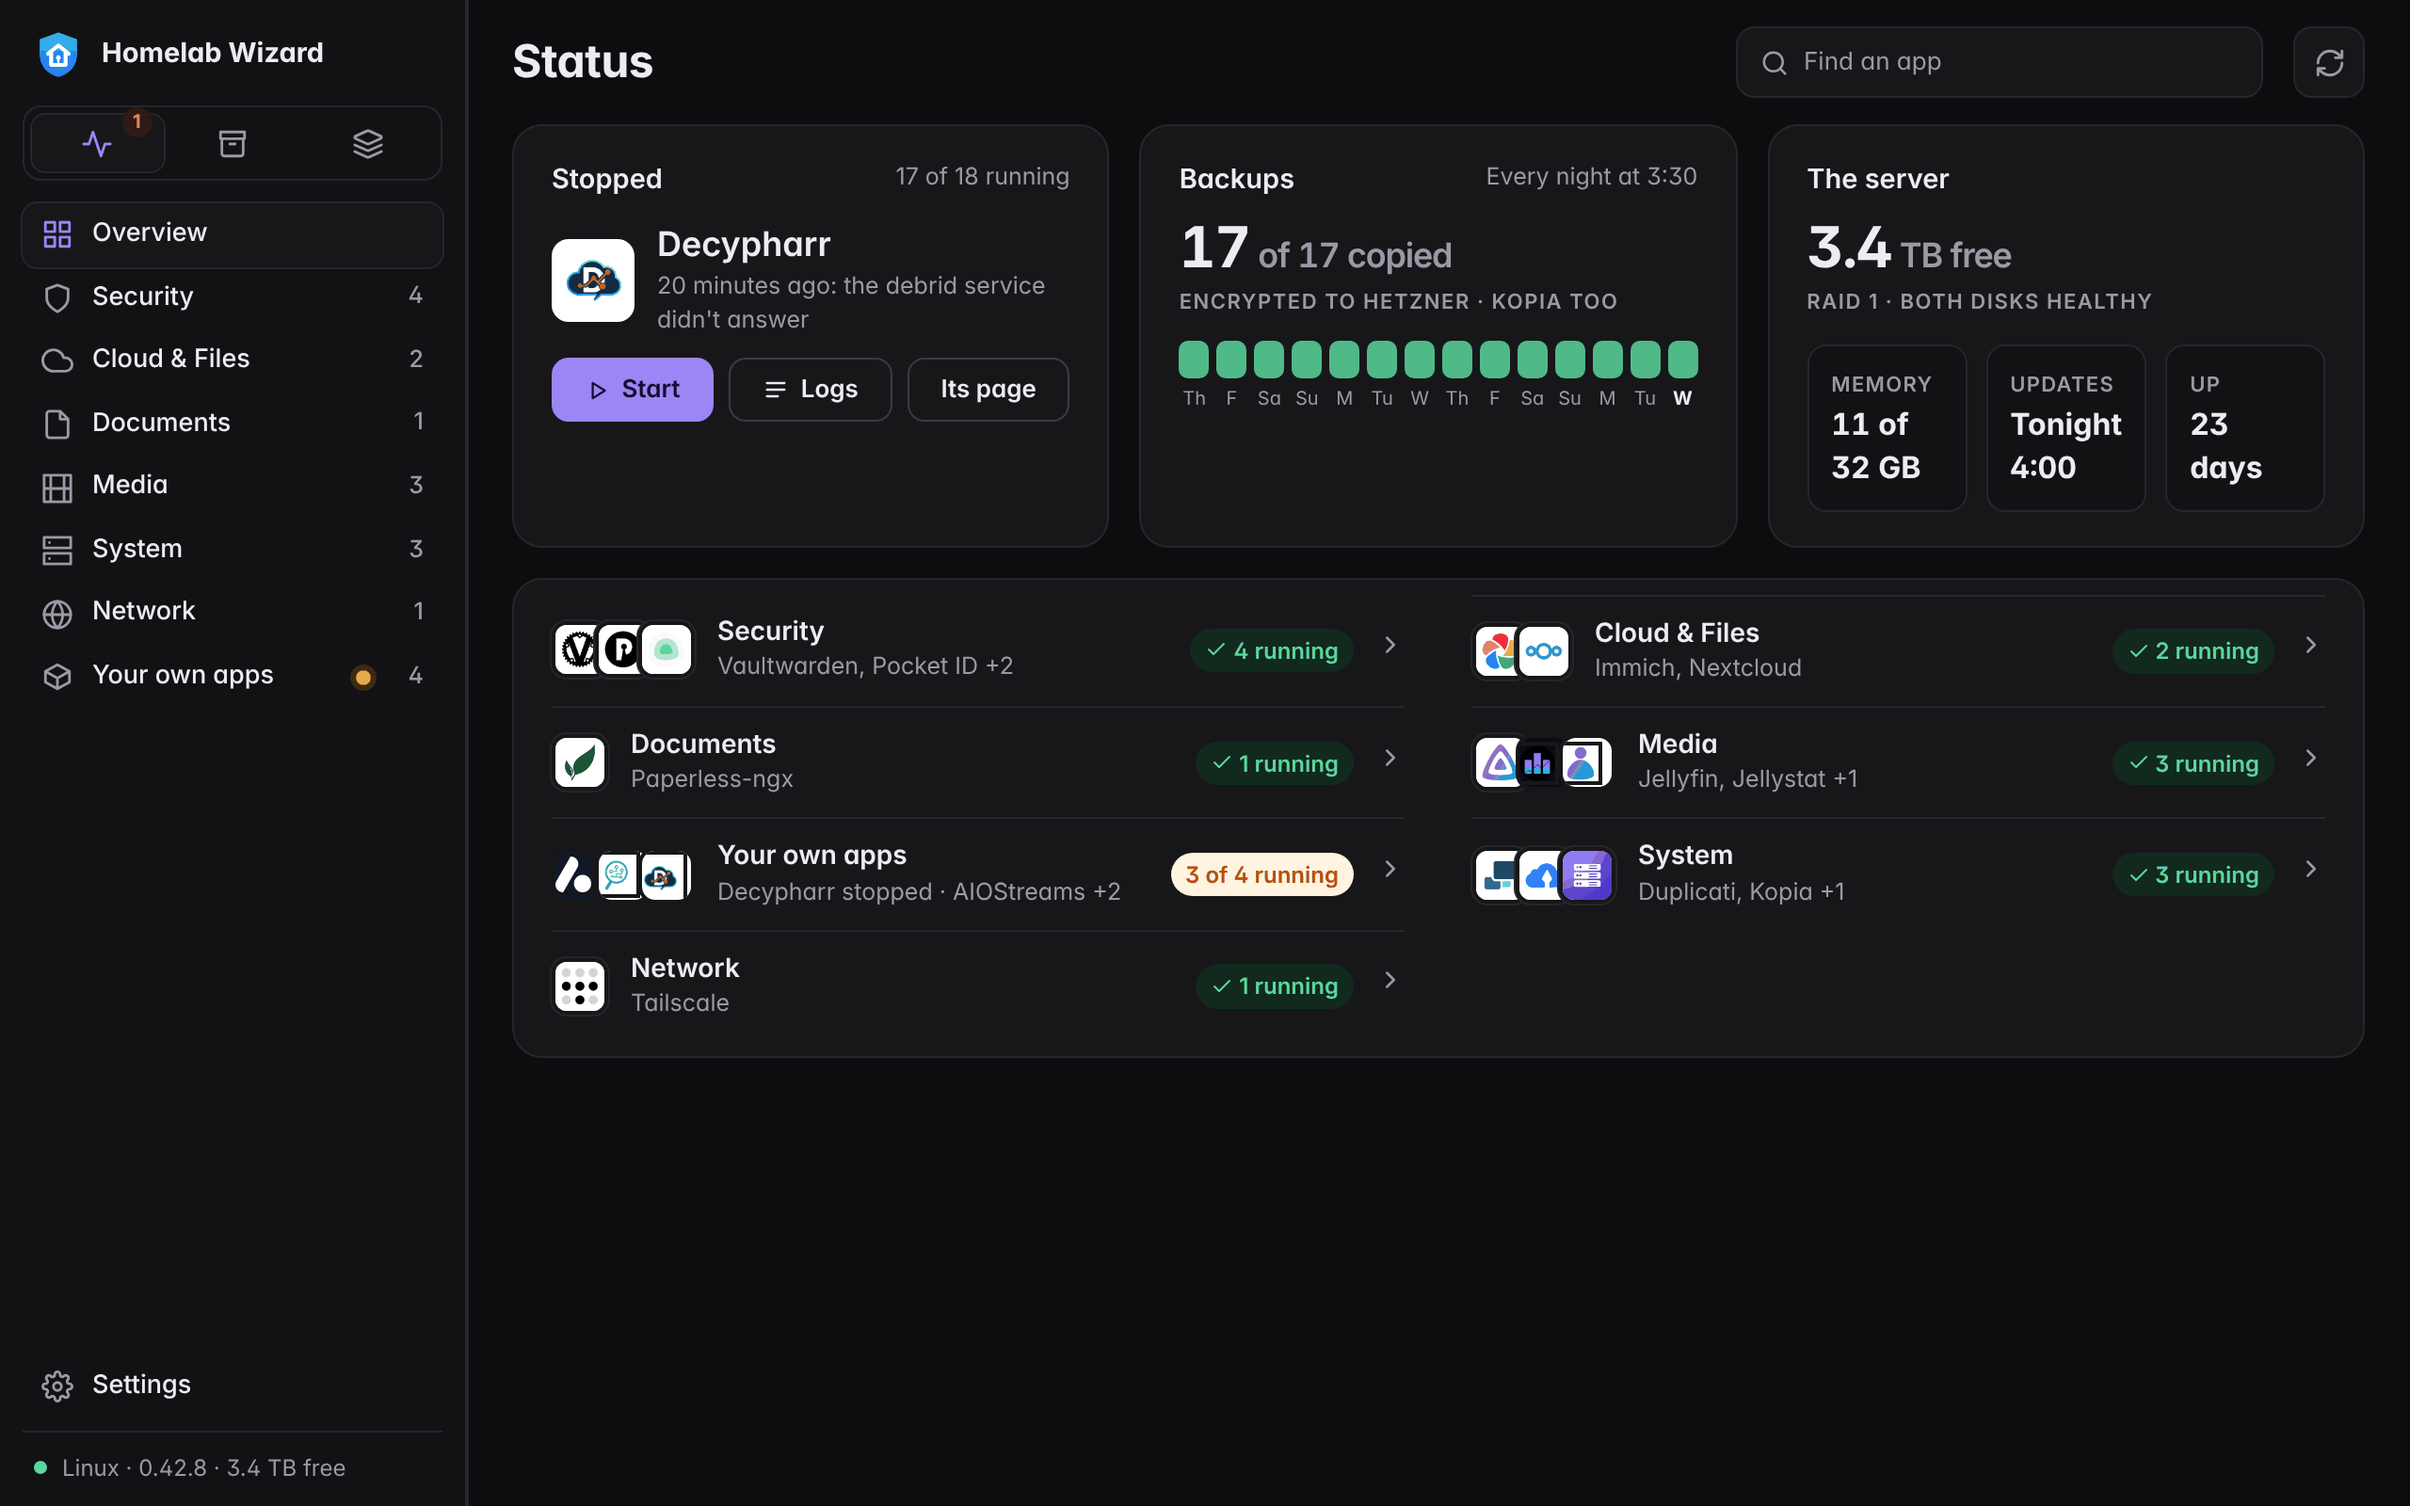
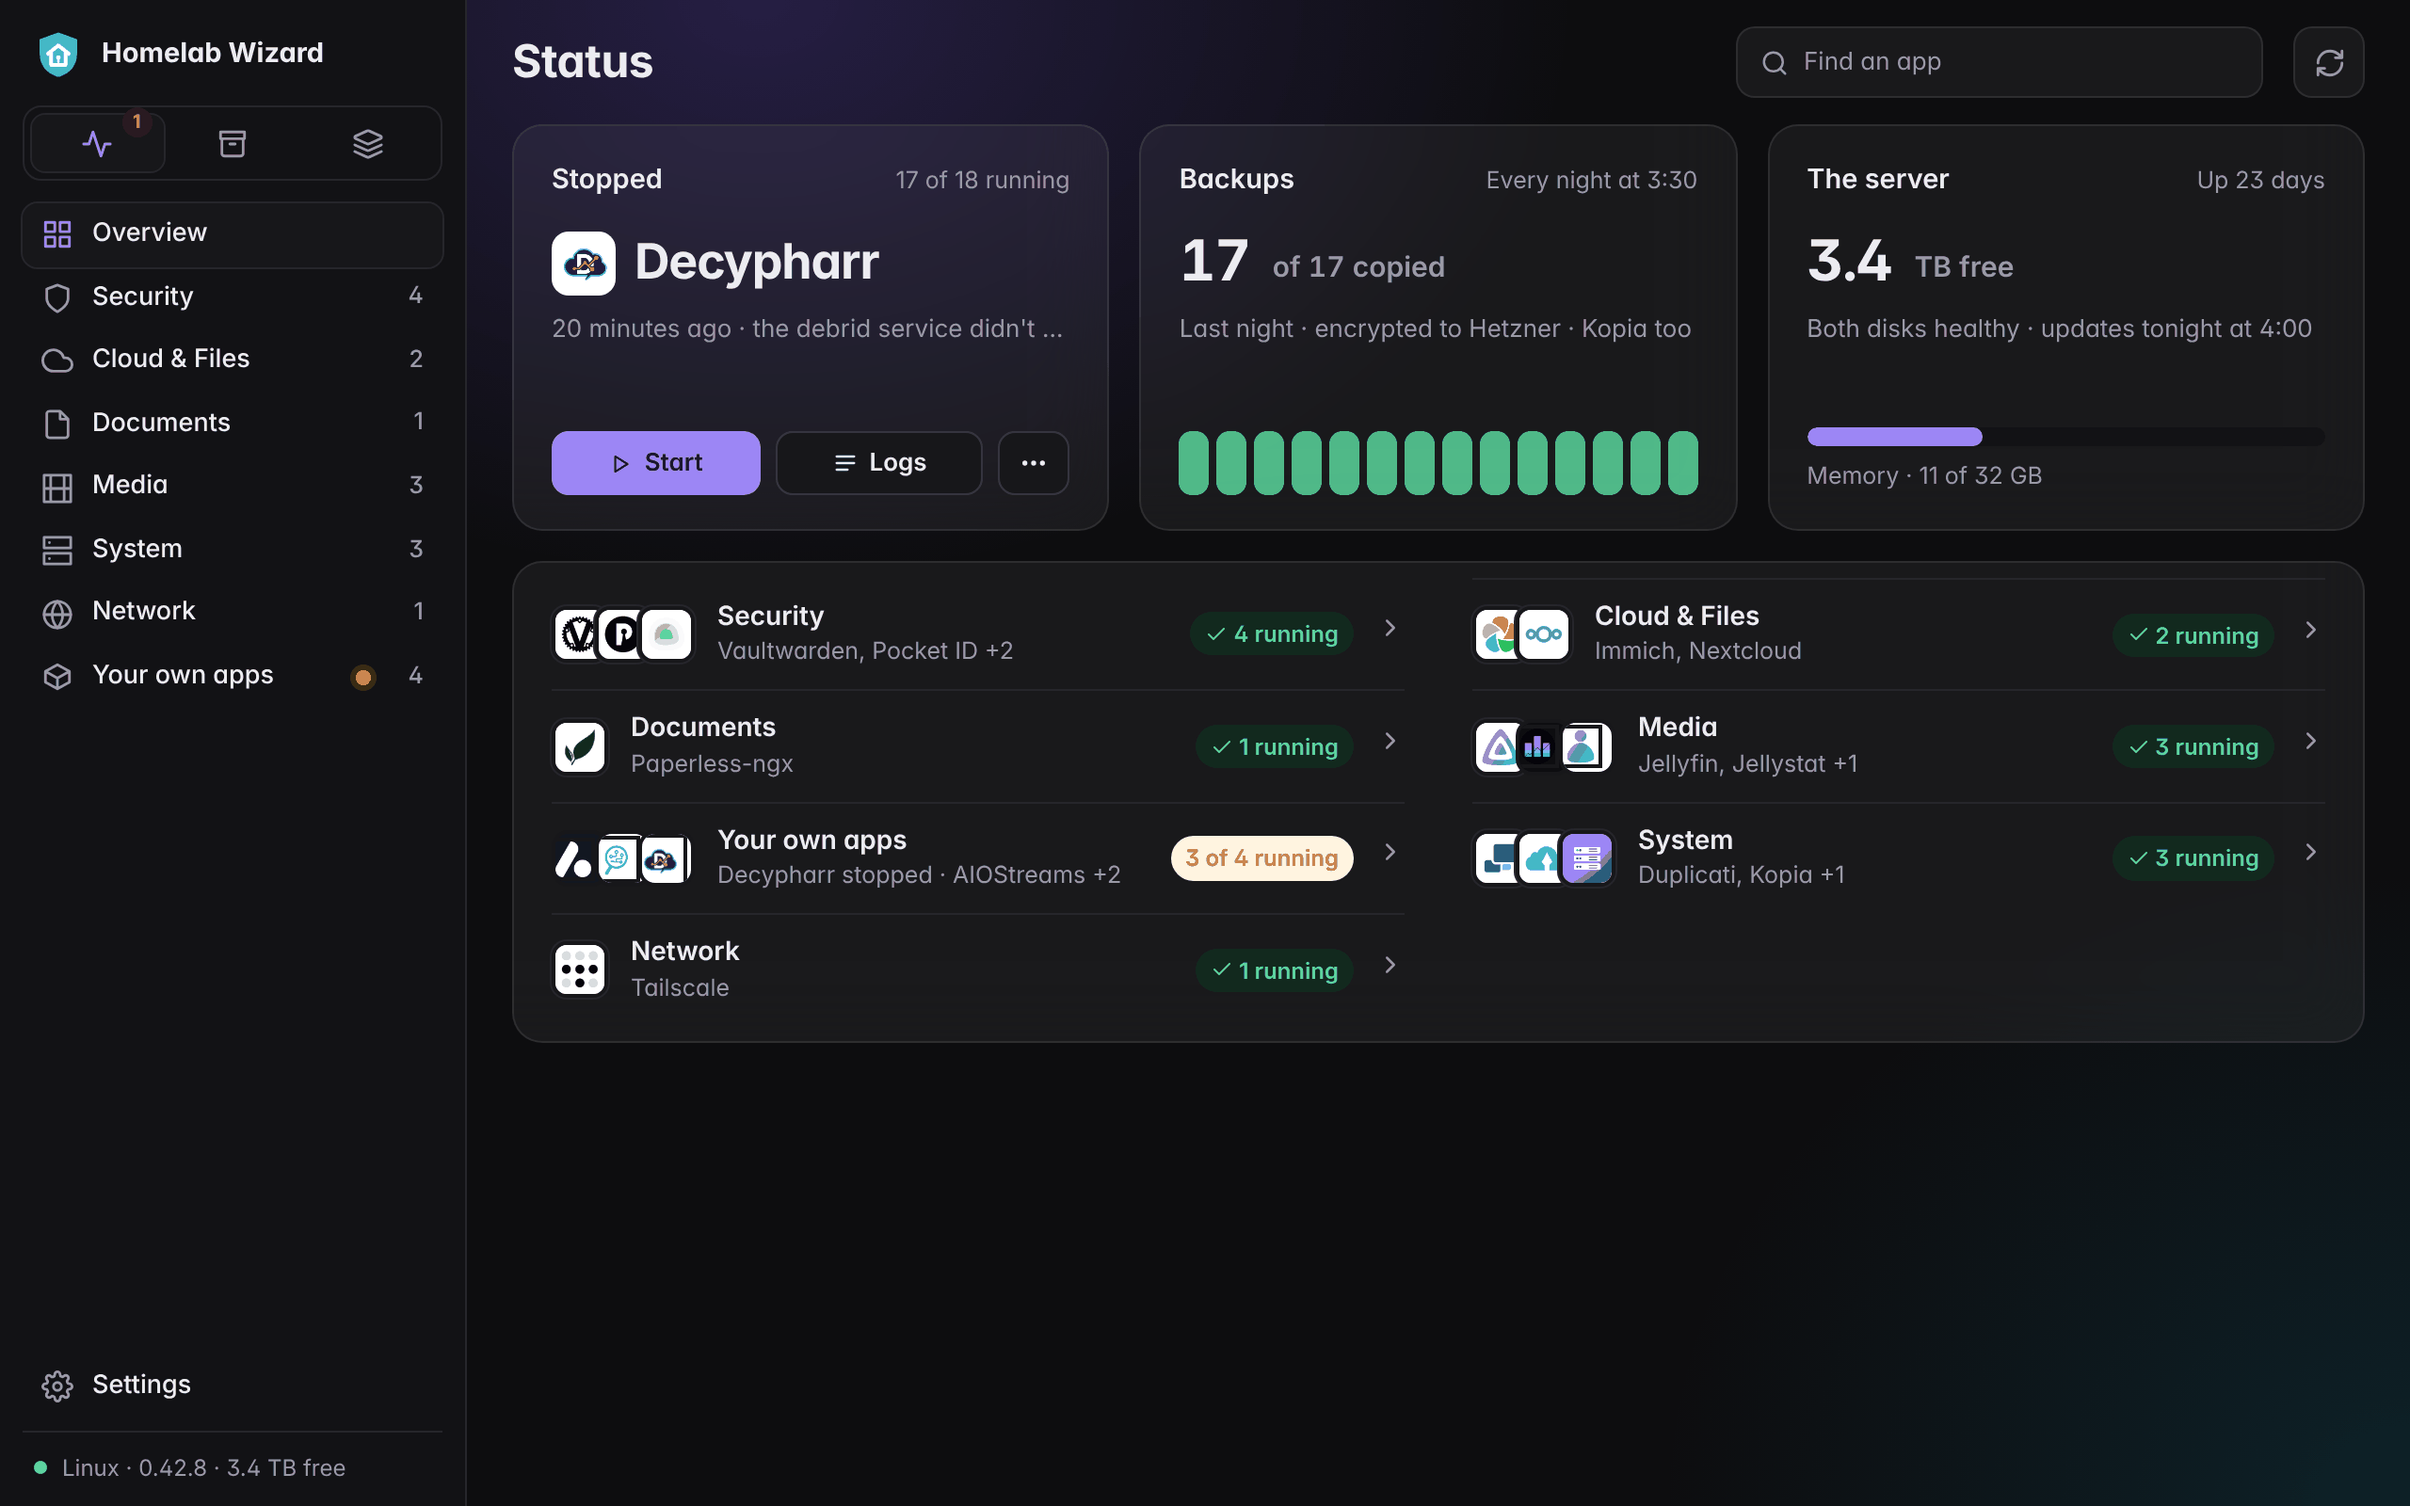
Status' top cards built one way, and the rule written down
The owner, Nov 25: the three cards on top of Status (stopped, backups,
the server) were each laid out differently, with boxes inside one, a
wrapping figure and an empty band. They now share one anatomy: title
row, one figure on the same line, one line under it, a footer pinned
to the bottom (Start and Logs, the fourteen nights, the memory bar).
Overview gets the category page's soft backdrop and see-through cards,
and own-app logos a hairline edge on white. Redesign.md's Cards and
web-loop.md's rules now forbid the old way.

Claude-Session: https://claude.ai/code/session_019rTjse5SCV1XTGeNN8Q41b

diff --git a/.claude/prompts/web-loop.md b/.claude/prompts/web-loop.md
@@ -44,8 +44,9 @@ Or, for a loop that paces itself: `/loop Read .claude/prompts/web-loop.md and do
 3. **What it shares with lane R:** the screens themselves (`web/src/screens/`, `web/src/status/`, `web/src/backups/`, `web/src/page/`, `web/src/parts/`). Change one only for the phone's page (an `onPhone()` branch, a part both use), and only when R has no open pull request on that file. A change R should make on the computer goes under **From the other lanes** in `redesign-loop.md`.
 4. **Never:** `apple-client/` (lane R's item P1), Finances' data (lane M: `web/src/finances` data files, `internal/finance`), Tidy Up on the phone (the owner: it stays on the computer).
 5. **Q reviews first** (`lanes.md` rule 6) for anything that: adds a call to `phoneMethods`; changes pairing, tokens, or what a phone may do; adds a host the homelab calls (Web Push does: W9); stores a new secret (VAPID keys: W9); or touches sign-in (passkeys: W11). Write **Needs Q's review: yes** and why on the description's first line.
-6. **Words** (`lanes.md` rule 12), and the owner's, Nov 25: **never "needs you"** (*"1 app needs you"*, *"Needs you"*). Say what happened: *"Decypharr stopped"*, *"Stopped"*, *"2 backups failed"*. Never write the household's chores as the app's feelings.
-7. **The devices to check, every pull request that changes how the phone's page looks.** Pictures of the **Duo's four poses** go in the description, light and dark; the rest run as smoke cases (`app/preview/shoot.mjs`, add a case per size):
+6. **Cards in a row share one anatomy** (the owner, Nov 25: *"we need to stop doing that"*): title row, one figure on the same line in every card, one line under it, a footer pinned to the bottom at the same height. No boxes inside cards, no wrapping figures, no empty band under one card. `docs/Redesign.md` › *Cards*. Check it in every picture before opening a pull request.
+7. **Words** (`lanes.md` rule 12), and the owner's, Nov 25: **never "needs you"** (*"1 app needs you"*, *"Needs you"*). Say what happened: *"Decypharr stopped"*, *"Stopped"*, *"2 backups failed"*. Never write the household's chores as the app's feelings.
+8. **The devices to check, every pull request that changes how the phone's page looks.** Pictures of the **Duo's four poses** go in the description, light and dark; the rest run as smoke cases (`app/preview/shoot.mjs`, add a case per size):
 
    | Device | CSS size (portrait; landscape swapped) | Why |
    |---|---|---|
@@ -73,7 +74,7 @@ Or, for a loop that paces itself: `/loop Read .claude/prompts/web-loop.md and do
    - VoiceOver order (`make app-smoke`'s axe check);
    - the page added to the Home Screen (`display-mode: standalone`) and in Safari's tab;
    - no sideways scroll at any size.
-8. **The server's homelab is a first-class case.** Use the preview's household for pictures (`app/preview/shoot.mjs`'s mock), and check every screen also reads right on Linux with no battery, no display and no desktop (no *This Mac*, no *Plugged in*, no tray).
+9. **The server's homelab is a first-class case.** Use the preview's household for pictures (`app/preview/shoot.mjs`'s mock), and check every screen also reads right on Linux with no battery, no display and no desktop (no *This Mac*, no *Plugged in*, no tray).
 
 ## The iPhone Duo (reported Nov 25; **confirm on a real device**, item W1)
 

diff --git a/docs/Redesign.md b/docs/Redesign.md
@@ -42,6 +42,7 @@ Every screen is built from the same few parts. A screen that matches its picture
 - **Rows inside a card** have a logo or icon on the left, a name with a short line under it, and the amount or the action on the right.
 - **Every card opens what it summarises** (its ↗).
 - **Nothing empty:** a card's height comes from what it holds; no tall card beside a short one leaving a hole.
+- **Cards in a row are built the same way** (the owner, Nov 25: *"we need to stop doing that"*, of three cards on a row each laid out differently): the title row, then **one figure on the same line in every card**, then **one line under it**, then a **footer pinned to the bottom at the same height** (the buttons, the nights, a bar). **No boxes inside a card**, no text that wraps in a figure, no empty band under one card's content where its neighbour has more. If one card has more to say, it goes behind its ↗, not into the card.
 
 ### The computer's sidebar
 
